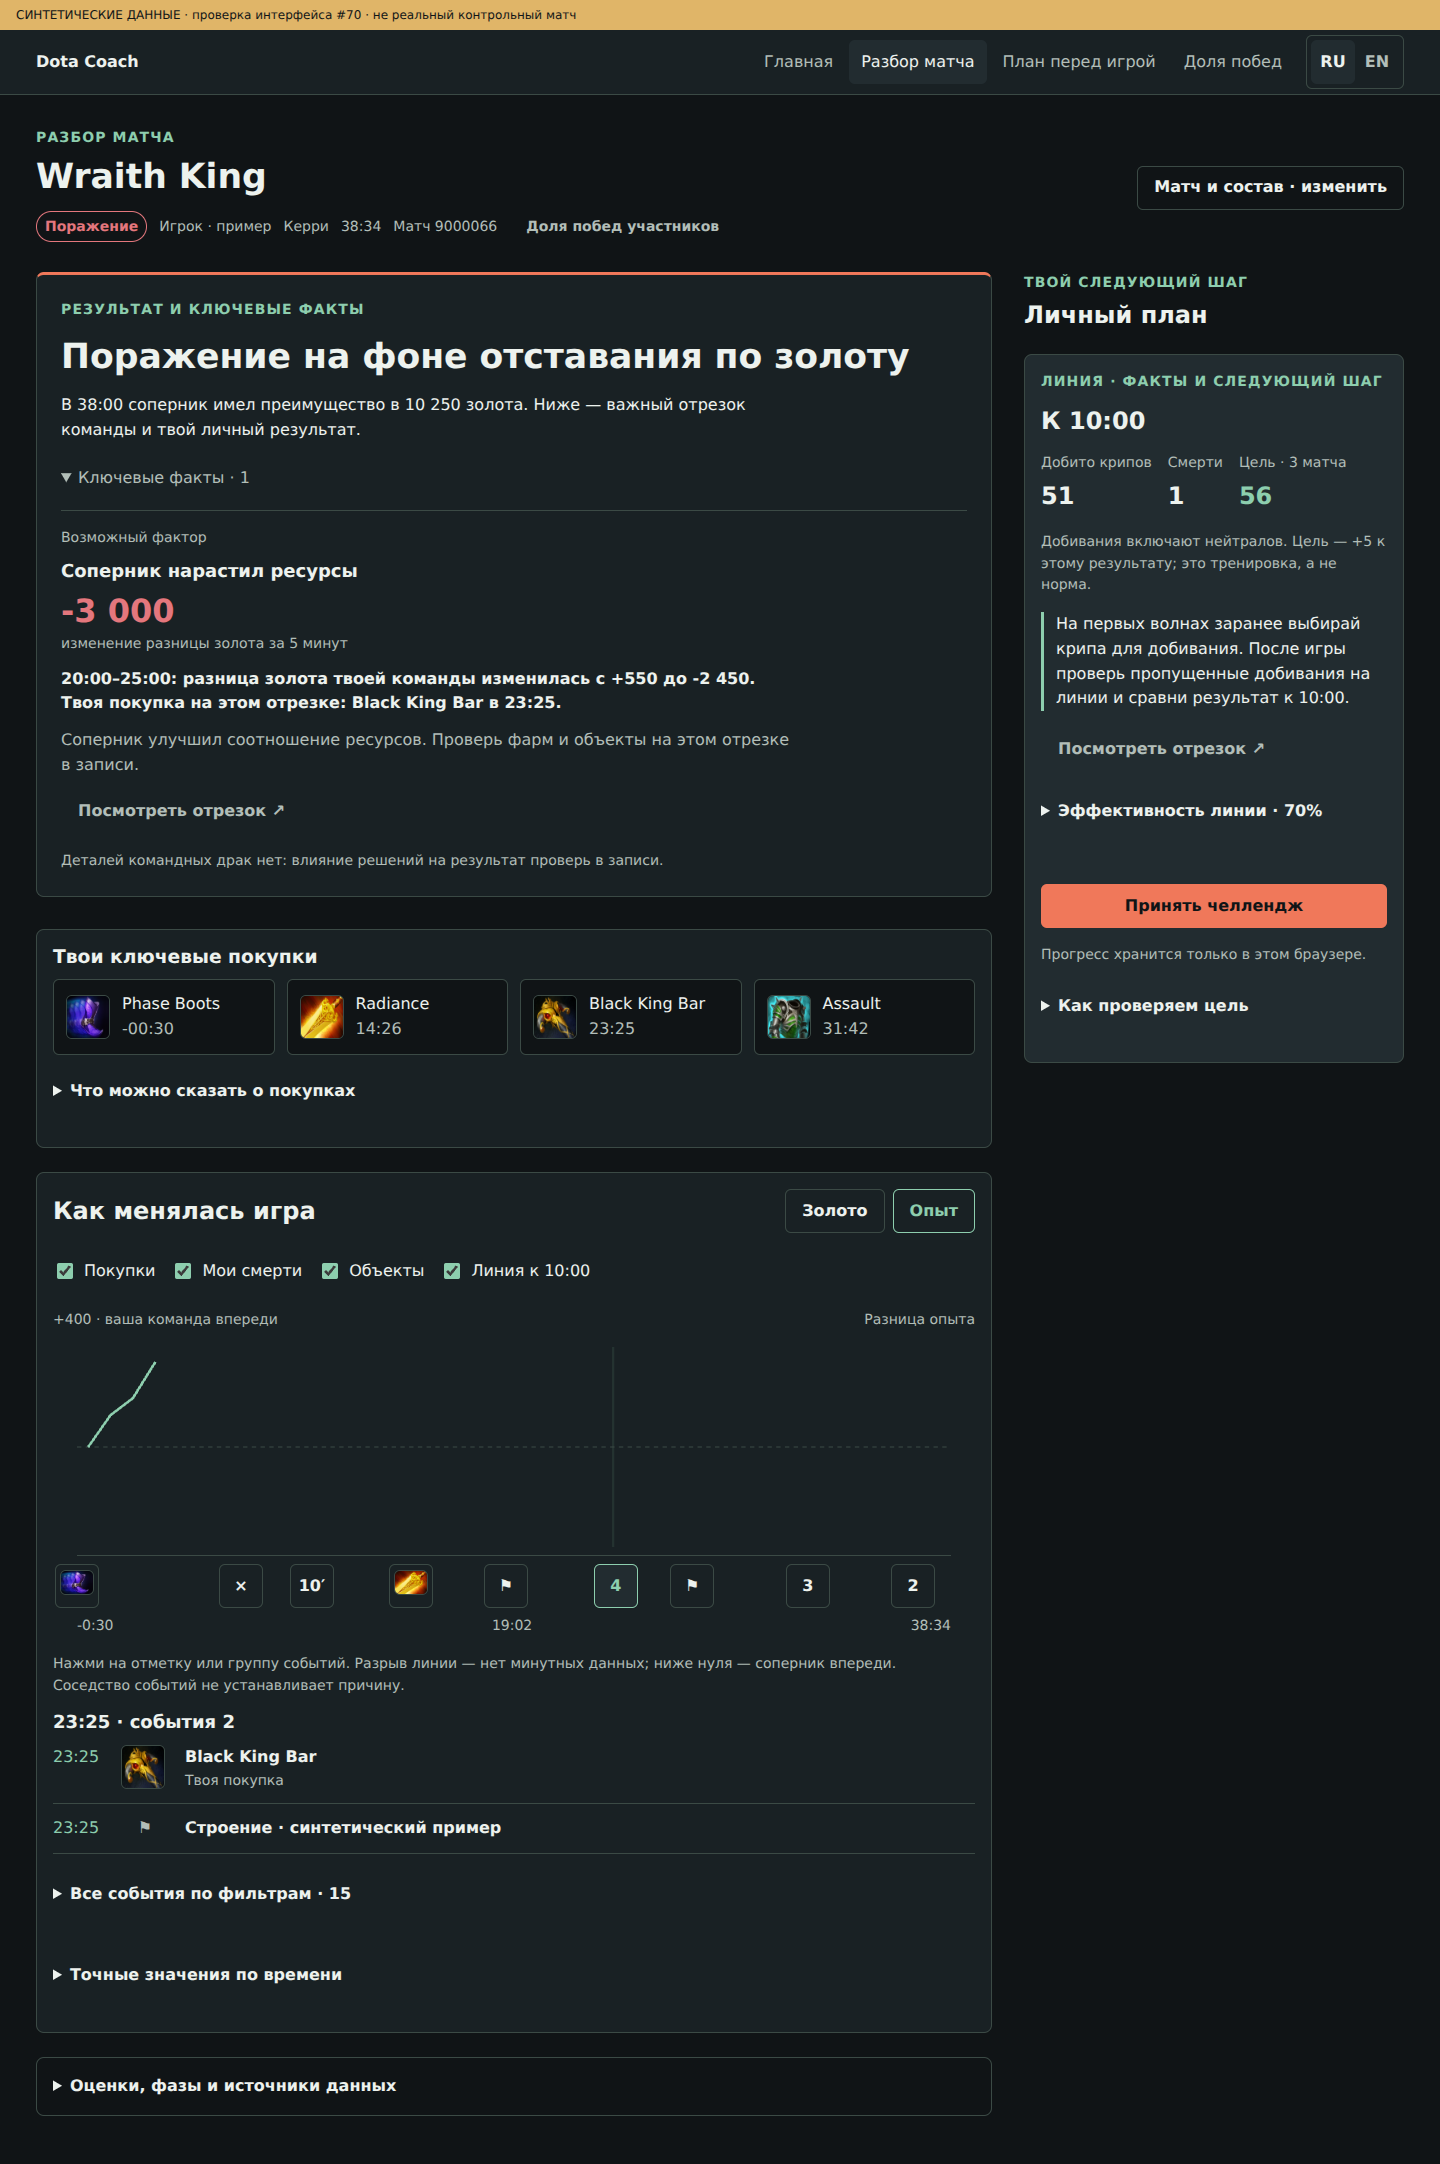
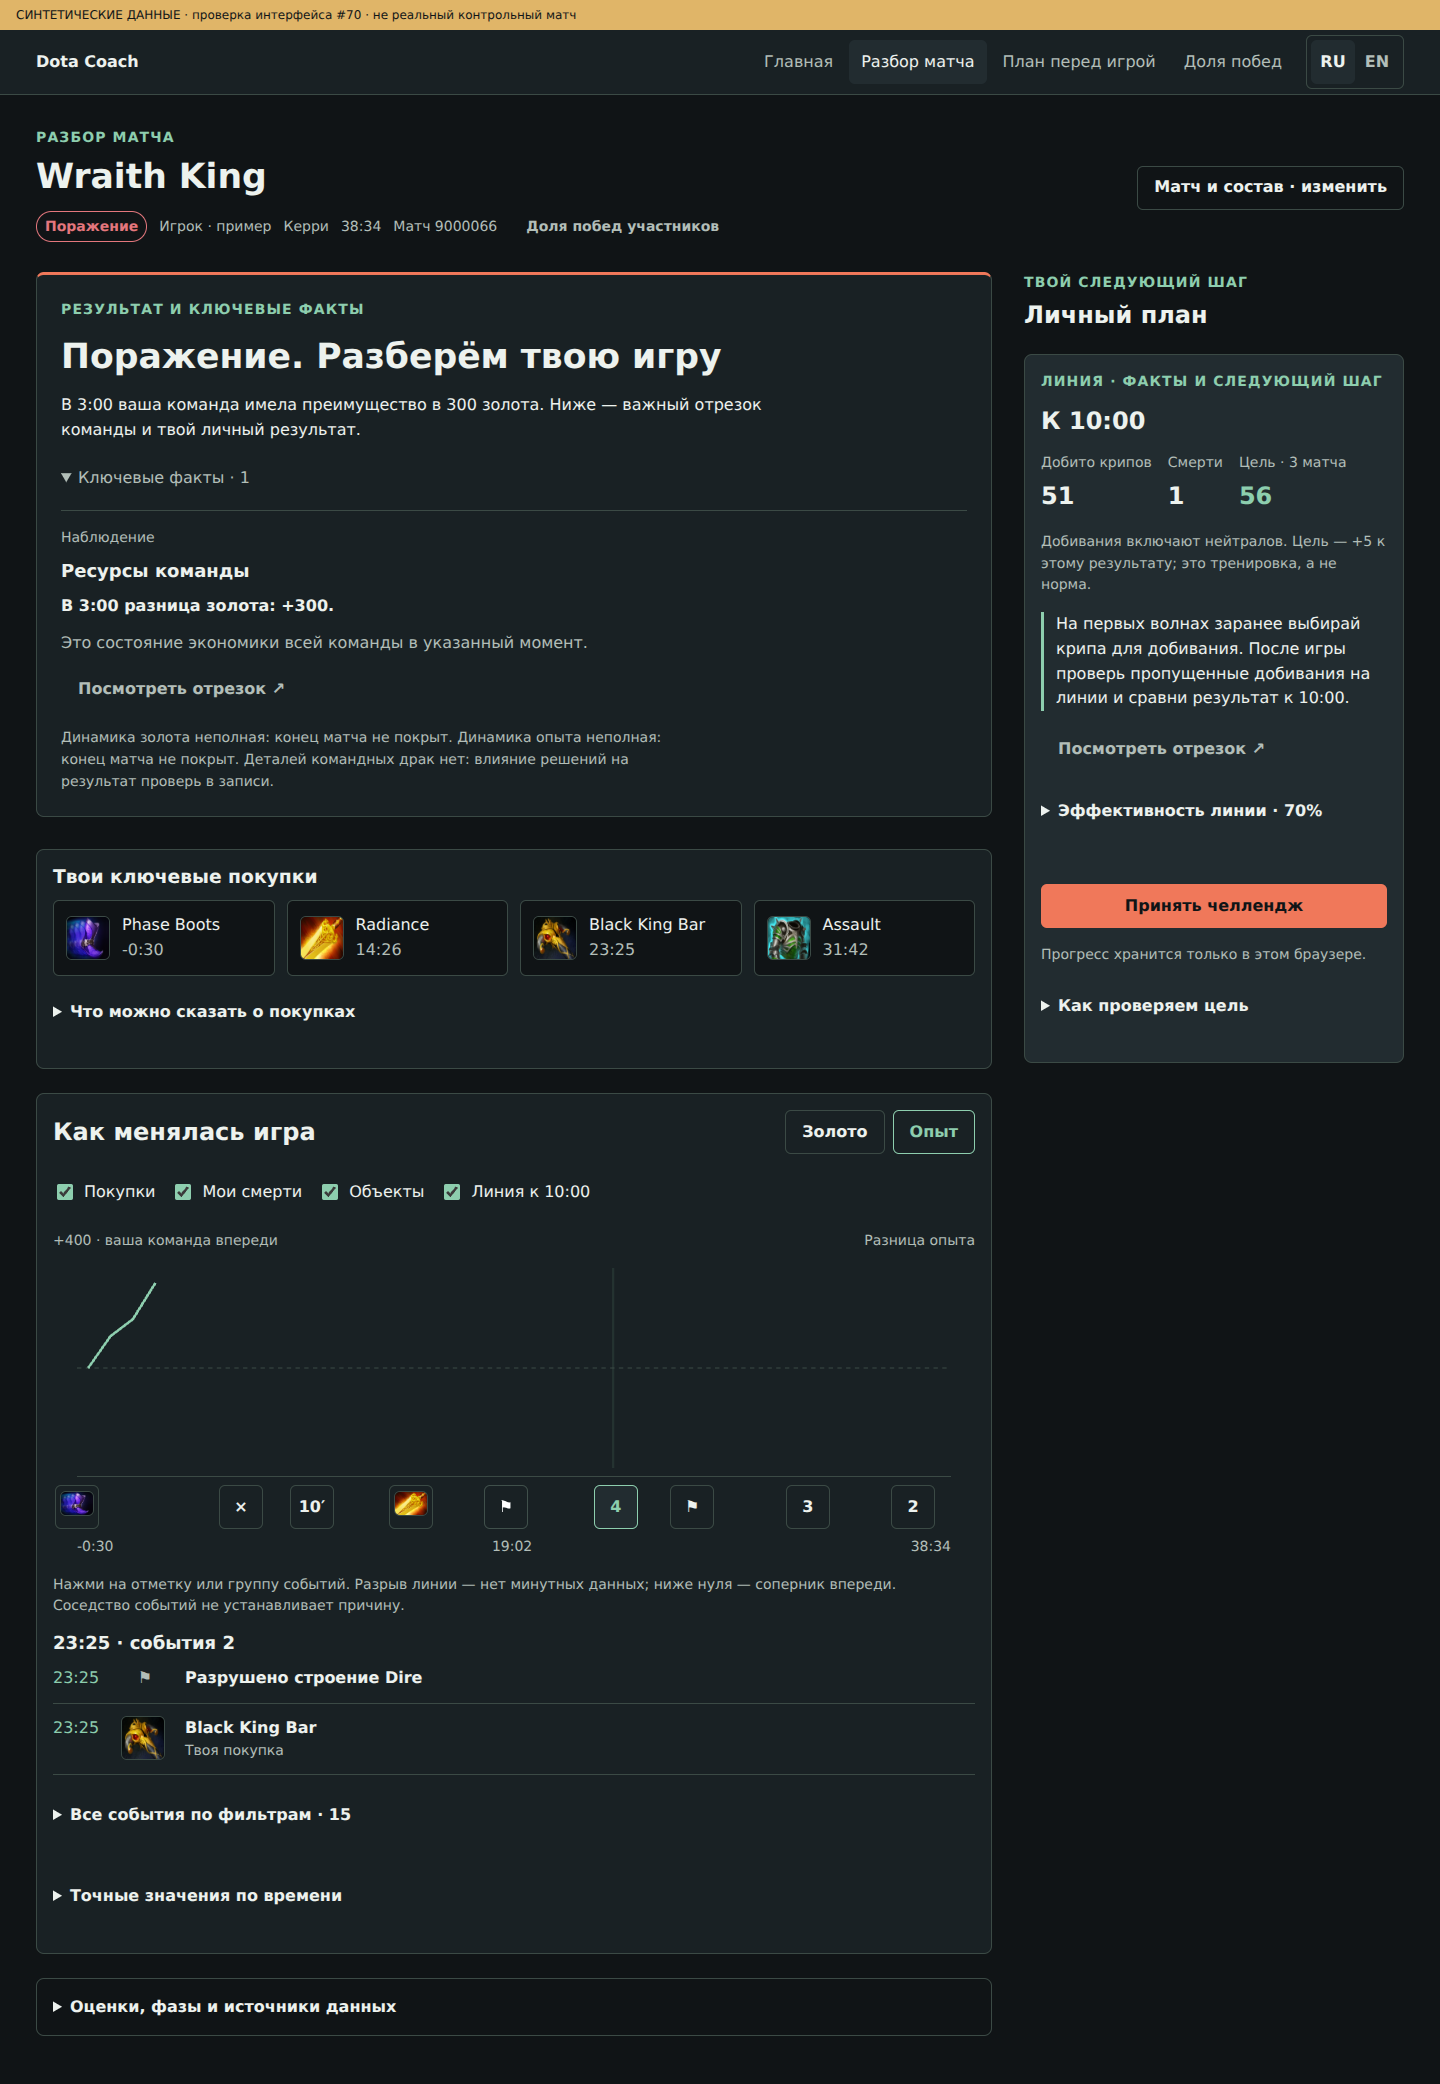
test: build truncated telemetry evidence through existing match rules

diff --git a/src/lib/dota/rules/postMatch/postMatchV2.fixture.ts b/src/lib/dota/rules/postMatch/postMatchV2.fixture.ts
@@ -4,7 +4,7 @@ import type { OpenDotaMatchResponse } from '../../types/providers';
 import { setHeroConstants } from '../../data/heroConstants';
 
 /** Entirely synthetic. 9000066 is a fixture ID, not the owner's screenshot match. */
-export async function syntheticPostMatch(options: { matchId?: number; lastHitsAt10?: number; accountId?: number; startTime?: number; partial?: boolean; empty?: boolean; lowLane?: boolean; won?: boolean } = {}) {
+export async function syntheticPostMatch(options: { matchId?: number; lastHitsAt10?: number; accountId?: number; startTime?: number; partial?: boolean; empty?: boolean; lowLane?: boolean; won?: boolean; temporal?: boolean } = {}) {
   setHeroConstants({ heroKeyById: { 42: 'skeleton_king' }, heroNameByKey: { skeleton_king: 'Wraith King' } });
   const times = Array.from({ length: 39 }, (_, minute) => minute * 60);
   const lhAt10 = options.lastHitsAt10 ?? 51;
@@ -24,6 +24,12 @@ export async function syntheticPostMatch(options: { matchId?: number; lastHitsAt
     radiant_xp_adv: times.map((_, i) => i < 15 ? i * 120 : 1800 - (i - 15) * 470),
     objectives: [{ type: 'building_kill', time: 1120, key: 'npc_dota_badguys_tower1_mid' }, { type: 'building_kill', time: 1440, key: 'npc_dota_goodguys_tower2_mid' }, { type: 'CHAT_MESSAGE_ROSHAN_KILL', time: 1620 }, { type: 'building_kill', time: 2200, key: 'npc_dota_goodguys_melee_rax_mid' }]
   };
+  if (options.temporal) {
+    payload.radiant_gold_adv = times.map((_, i) => [0, 100, NaN, 300][i] ?? NaN);
+    payload.radiant_xp_adv = times.map((_, i) => [0, 150, 230, 400][i] ?? NaN);
+    selected.purchase_log[0].time = -30;
+    if (Array.isArray(payload.objectives)) payload.objectives.push({ type: 'building_kill', time: 1405, key: 'npc_dota_badguys_tower2_top' });
+  }
   if (options.partial || options.empty) {
     delete payload.radiant_gold_adv;
     delete payload.radiant_xp_adv;
